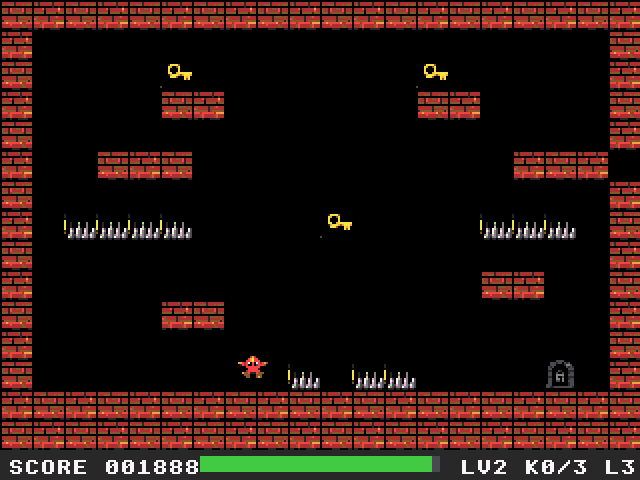
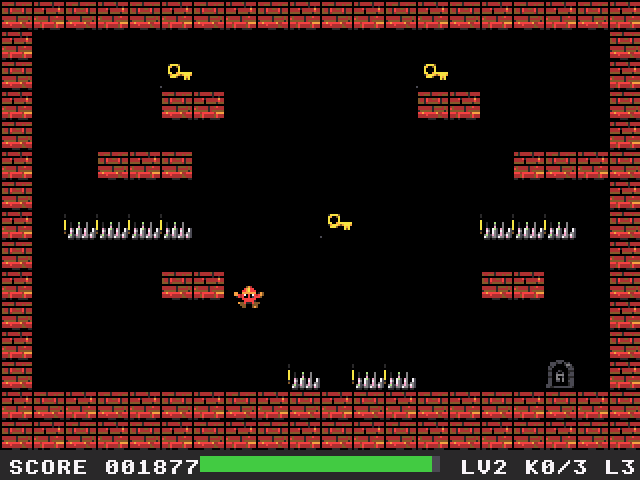
Miner Meteor: land on the floor (no bob); Hazard Bay and Collapsing Attic reachable
The landing snap put the player 16 px above the floor after a landing at
an unaligned y, so they dropped and snapped back every few frames. Land
exactly on the floor tile instead (same fix as the Amiga original).

Every earlier route jumped from the top of that bob, 16 px higher than a
real jump; without it Hazard Bay (cavern 2) and Collapsing Attic (cavern 5)
can't be finished (exhaustive search), so their levels change:
- Hazard Bay: the row-10 left ledge moves up to row 9.
- Collapsing Attic: the row-8 ledge and its key move 6 columns left, the
  row-3 ledge 2 columns left.

New routes (tools/routes.json) and demo.h from this game logic; route_check
also fails a route if the player is ever on the ground over no floor.
route_check: 6 of 6 (271, 252, 842, 256, 209, 305 ticks).

diff --git a/miner_meteor/tools/route_check.cpp b/miner_meteor/tools/route_check.cpp
@@ -7,11 +7,12 @@
  * (all the keys, then the exit) without losing a life.
  *
  * The routes (tools/routes.json, one list of [input flags, ticks] runs per
- * cavern; 1 left, 2 right, 4 jump) are the Lynx port's
- * (geekychris/lynxdev games/miner_meteor/tools/routes.json), found by a
- * search over the same game logic; the first is demo.h's. Cavern 4's is
- * from tools/route_search.cpp, since its first guardian moved onto the
- * ledge (y 32, was 48 inside it).
+ * cavern; 1 left, 2 right, 4 jump; the first is demo.h's) were found by a
+ * search over this game logic after the landing fix (the player lands on
+ * the floor instead of 16 px above it): an exhaustive breadth-first search
+ * for caverns 1-4 (the shortest runs) and tools/route_search.cpp for 5 and
+ * 6. It also fails a route if the player is ever on the ground with no
+ * floor under their feet (the old landing bob).
  *
  *   tools/route_check.sh
  */
@@ -43,6 +44,18 @@ static std::vector<std::vector<std::pair<int, int> > > load(const char *path)
     return routes;
 }
 
+/* Is there floor right under the player's feet? (off the grid counts) */
+static int floor_under(const GameState &gs)
+{
+    LONG fy = gs.player.y + 16, xs[2] = { gs.player.x + 1, gs.player.x + 14 };
+    for (int i = 0; i < 2; i++) {
+        if (xs[i] < 0 || fy < 0 || xs[i] >= PLAY_W || fy >= PLAY_H) return 1;
+        UBYTE k = gs.grid[fy / TILE_H][xs[i] / TILE_W].kind;
+        if (k == T_SOLID || k == T_COLLAPSE || k == T_CONV_L || k == T_CONV_R) return 1;
+    }
+    return 0;
+}
+
 int main(int argc, char **argv)
 {
     std::vector<std::vector<std::pair<int, int> > > routes = load(argc > 1 ? argv[1] : "tools/routes.json");
@@ -61,6 +74,9 @@ int main(int argc, char **argv)
                 for (int n = 0; n < routes[lv][r].second && !done; n++) {
                     g.tick((UBYTE)routes[lv][r].first);
                     ticks++;
+                    if (gs.mode == GM_PLAYING && gs.player.on_ground && !floor_under(gs)) {
+                        why = "stood in mid-air (landing bob)"; done = -1; continue;
+                    }
                     if (gs.mode == GM_LEVELWIN || gs.mode == GM_WIN) done = 1;
                     else if (gs.lives < lives || gs.mode == GM_LOSE) { why = "lost a life"; done = -1; }
                 }

diff --git a/miner_meteor/levels.cpp b/miner_meteor/levels.cpp
@@ -57,8 +57,8 @@ static const char LVL1_TILES[] =
     "#..................#"
     "#.^^^^....K....^^^.#"
     "#..................#"
-    "#..............##..#"
-    "#....##............#"
+    "#....##........##..#"   /* bug in the original: unwinnable - this ledge was in row 10, too low to jump to row 5 from */
+    "#..................#"   /* was "#....##............#" */
     "#..................#"
     "#..P.....^.^^....E.#"   /* bug in the original: unwinnable (was ^^^^, no jump clears it) */
     "####################"
@@ -131,12 +131,12 @@ static const char LVL4_TILES[] =
     "####################"
     "#..................#"
     "#.........K........#"
-    "#........cccc......#"
+    "#......cccc........#"   /* bug in the original: unwinnable - out of jump reach, was "#........cccc......#" */
     "#..................#"
     "#..K...............#"
     "#.cccc.............#"
-    "#..............K...#"
-    "#............cccc..#"
+    "#........K.........#"   /* bug in the original: unwinnable - this ledge and key were out of reach, */
+    "#.......cccc.......#"   /* were "#..............K...#" / "#............cccc..#" */
     "#..................#"
     "#....K.............#"
     "#..cccc............#"

diff --git a/miner_meteor/demo.h b/miner_meteor/demo.h
@@ -11,9 +11,10 @@
 #define DEMO_RUN_H
 
 static const UBYTE DEMO_RUN[][2] = {
-    {  1,   4 },    {  5,   1 },    {  1,   3 },    {  0,   9 },    {  2,   1 },    {  0,   1 },
-    {  2,   5 },    {  6,   1 },    {  2,  69 },    {  6,   1 },    {  2,  15 },    {  1,   4 },
-    {  0,   8 },    {  2,  12 },    {  0,   2 },    {  1,   9 },
+    {  1,   4 },    {  5,   1 },    {  1,   3 },    {  0,   6 },    {  2,  79 },    {  6,   1 },
+    {  2,  20 },    {  4,   1 },    {  1,  13 },    {  4,   1 },    {  0,  10 },    {  2,   5 },
+    {  1,  43 },    {  5,   1 },    {  1,  21 },    {  2,   1 },    {  6,   1 },    {  2,  11 },
+    {  0,   5 },    {  2,  44 },
 };
 #define DEMO_RUNS ((int)(sizeof(DEMO_RUN) / sizeof(DEMO_RUN[0])))
 

diff --git a/miner_meteor/game.cpp b/miner_meteor/game.cpp
@@ -193,7 +193,10 @@ void MinerGame::update_player(UBYTE input)
     if (p.vy > 0) {
         /* Falling — check floor at both feet corners. */
         if (solid_at(p.x + 1, new_y + 15) || solid_at(p.x + 14, new_y + 15)) {
-            new_y = ((p.y / TILE_H) + 1) * TILE_H - 16;
+            /* fix: snapped to ((p.y / TILE_H) + 1) * TILE_H - 16, 16 px above the
+               floor after a landing at an unaligned y, so the player dropped
+               and snapped back every few frames (a bob) */
+            new_y = ((new_y + 15) / TILE_H) * TILE_H - 16;
             p.vy = 0;
             p.on_ground = 1;
         }

diff --git a/miner_meteor/README.md b/miner_meteor/README.md
@@ -69,9 +69,23 @@ Key presses shorter than a drawn frame are not lost (`ikbd_key_hit`).
   second row-10 gap (column 14) drops you past the spikes to the exit.
   Guardians, spikes, conveyors, collapsing floors and keys are otherwise
   unchanged. A search over the real game state (moving guardians,
-  collapsing floors, air, the collision snaps) finds a run through every
-  one of the six caverns, checked by replaying it with the game code.
+  collapsing floors, air) finds a run through every one of the six
+  caverns, checked by replaying it with the game code.
   Set `JUMP_IMPULSE` to (-8) for the original jump.
+- **The landing bob** (also fixed in the original, amiga_games): a landing
+  at a y that wasn't a multiple of 16 put the player 16 pixels above the
+  floor, from where they dropped and snapped back every few frames, bobbing
+  until they moved on. `game.cpp` now lands them on the floor. Every earlier
+  route jumped from the top of the bob, 16 pixels higher than a real
+  jump, and without it two caverns could not be finished, so their levels
+  changed again (rows marked "bug in the original: unwinnable", as above):
+  - **Hazard Bay:** the left ledge in row 10 (`#....##............#`) is
+    one row higher, in row 9 (`#....##........##..#`). From row 10 the jump
+    fell 14 pixels short of the row-5 ledge under the top-left key.
+  - **Collapsing Attic:** the row-8 collapsing ledge and its key moved six
+    columns left (`#.......cccc.......#`, key `#........K.........#`) and
+    the top ledge in row 3 two columns left (`#......cccc........#`);
+    neither could be reached from the ledge below.
 - From the original's later fixes ([amiga_games#53](https://github.com/geekychris/amiga_games/pull/53)):
   - **Hazard Bay:** row 5 ended in `.`, a hole in the right wall; now `#`.
   - **Guardian Alley:** the first guardian (the one on the top ledge) was at y 48, inside the row-3 ledge; now y 32, on it.
@@ -95,7 +109,8 @@ screenshots above come from it. The game logs `MINER SYMBOL state 0x...`
 or keys, `demo: start` / `demo: done`, and a PERF line every 100 frames.
 
 `tools/route_check.sh` builds `game.cpp` and `levels.cpp` for the host and
-plays a route through each of the six caverns (`tools/routes.json`: the Lynx
-port's routes, with cavern 4's found again by `tools/route_search.cpp` for the
-moved guardian); it clears all six. `tools/route_check.sh search N` searches
-a new route through cavern N.
+plays a route through each of the six caverns (`tools/routes.json`, found
+over this game logic after the landing fix: 271, 252, 842, 256, 209 and 305
+ticks); it clears all six, and fails a route if the player ever stands with
+no floor under them (the old bob). `tools/route_check.sh search N` searches a
+new route through cavern N.
